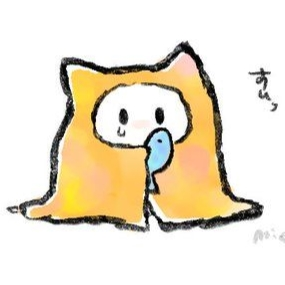
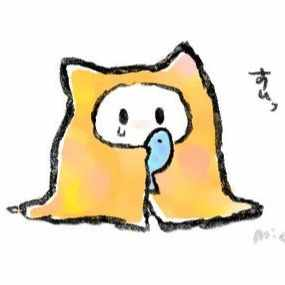
reduce image size

diff --git a/src/components/Views/Home.js b/src/components/Views/Home.js
@@ -15,11 +15,10 @@ class Home extends React.Component {
                         <div className="col-lg-7">
                             <div className="section-title mb-4">
                                 <h5 className="position-relative d-inline-block text-primary text-uppercase">
-                                    Giới thiệu
+                                    Về Fast Uty
                                 </h5>
                                 <h1 className="display-5 mb-0">
-                                    The World's Best Dental Clinic That You Can
-                                    Trust
+                                    Tiện ích nhanh cho bạn
                                 </h1>
                             </div>
                             <h4 className="text-body fst-italic mb-4">
@@ -62,13 +61,6 @@ class Home extends React.Component {
                                     </h5>
                                 </div>
                             </div>
-                            {/* <a
-                                href="appointment.html"
-                                className="btn btn-primary py-3 px-5 mt-4 wow zoomIn"
-                                data-wow-delay="0.6s"
-                            >
-                                Make Appointment
-                            </a> */}
                         </div>
                         <div
                             className="col-lg-5"
@@ -78,7 +70,7 @@ class Home extends React.Component {
                                 <img
                                     className="position-absolute w-100 h-100 rounded wow zoomIn"
                                     data-wow-delay="0.9s"
-                                    src="https://vnn-imgs-a1.vgcloud.vn/cdn.24h.com.vn/upload/3-2019/images/2019-09-22/1569088344-560-1-1569052420-width650height813.jpg"
+                                    src="/img/bg.jpg"
                                     alt=""
                                     style={{ objectFit: "cover" }}
                                 />

diff --git a/src/components/ChatPages/SearchChatRoom.js b/src/components/ChatPages/SearchChatRoom.js
@@ -1,10 +1,12 @@
 import { useEffect, useState } from "react";
+import { useHistory } from "react-router-dom";
 import { withRouter } from "react-router-dom";
 import randomId from "../../services/randomId";
 
 const SearchChatRoom = (props) => {
     const [errMsg, setErrMsg] = useState(null);
     const [roomId, setRoomId] = useState("");
+    const history = useHistory();
 
     const handleChangeRoomId = (e) => {
         setRoomId(e.target.value);
@@ -23,7 +25,7 @@ const SearchChatRoom = (props) => {
             return;
         }
 
-        props.history.push("/chat/" + roomId);
+        history.push("/chat/" + roomId);
     };
 
     useEffect(() => {
@@ -35,21 +37,14 @@ const SearchChatRoom = (props) => {
             <div className="row justify-content-center">
                 <div className="col-md-5 col-sm-10 col-12">
                     <div className="mx-auto mt-4 px-4 py-5 bg-white rounded border">
-                        {/* <h4 className="text-black-50">
-                            <span className="text-primary">Fast</span>
-                            <span className="text-secondary">Chat</span>
-                        </h4> */}
                         <h5 className="position-relative d-inline-block text-primary text-uppercase">
                             fastchat
                         </h5>
                         <form>
                             <div className="form-group mt-4">
-                                {errMsg ? (
-                                    <p className="text-danger">
-                                        <i className="bi bi-exclamation-diamond-fill"></i>{" "}
-                                        {errMsg}
-                                    </p>
-                                ) : null}
+                                {errMsg && (
+                                    <p className="text-danger">{errMsg}</p>
+                                )}
                                 <input
                                     type={"text"}
                                     value={roomId}

diff --git a/src/components/ChatPages/HeaderChat.js b/src/components/ChatPages/HeaderChat.js
@@ -87,6 +87,8 @@ const HeaderChat = (props) => {
                             strokeWidth="1.5"
                             strokeLinecap="round"
                             strokeLinejoin="round"
+                            data-bs-toggle="offcanvas"
+                            data-bs-target="#showInfo"
                         >
                             <circle cx={12} cy={12} r={3} />
                             <path d="M19.4 15a1.65 1.65 0 00.33 1.82l.06.06a2 2 0 010 2.83 2 2 0 01-2.83 0l-.06-.06a1.65 1.65 0 00-1.82-.33 1.65 1.65 0 00-1 1.51V21a2 2 0 01-2 2 2 2 0 01-2-2v-.09A1.65 1.65 0 009 19.4a1.65 1.65 0 00-1.82.33l-.06.06a2 2 0 01-2.83 0 2 2 0 010-2.83l.06-.06a1.65 1.65 0 00.33-1.82 1.65 1.65 0 00-1.51-1H3a2 2 0 01-2-2 2 2 0 012-2h.09A1.65 1.65 0 004.6 9a1.65 1.65 0 00-.33-1.82l-.06-.06a2 2 0 010-2.83 2 2 0 012.83 0l.06.06a1.65 1.65 0 001.82.33H9a1.65 1.65 0 001-1.51V3a2 2 0 012-2 2 2 0 012 2v.09a1.65 1.65 0 001 1.51 1.65 1.65 0 001.82-.33l.06-.06a2 2 0 012.83 0 2 2 0 010 2.83l-.06.06a1.65 1.65 0 00-.33 1.82V9a1.65 1.65 0 001.51 1H21a2 2 0 012 2 2 2 0 01-2 2h-.09a1.65 1.65 0 00-1.51 1z" />

diff --git a/src/components/ChatPages/Chat.js b/src/components/ChatPages/Chat.js
@@ -15,6 +15,7 @@ import ConversationArea from "./ConversationArea";
 import randomAvatar from "../../services/randomAvatar";
 import HeaderChat from "./HeaderChat";
 import { Prompt } from "react-router-dom";
+import { useHistory } from "react-router-dom";
 
 const API_ENDPOINT = process.env.REACT_APP_API_ENDPOINT;
 const serverHost = API_ENDPOINT;
@@ -30,6 +31,7 @@ const Chat = (props) => {
     const messagesEndRef = useRef(null);
 
     const { roomId } = useParams();
+    const history = useHistory();
 
     const handleOnChangeTextMessage = (e) => {
         setTextMessage(e.target.value);
@@ -150,7 +152,7 @@ const Chat = (props) => {
 
     const handleLeaveRoom = () => {
         socket.emit("leave-chat-room", roomId);
-        props.history.push("/chat");
+        history.push("/chat");
     };
 
     const scrollToBottom = () => {

diff --git a/src/components/NotePages/SearchNote.js b/src/components/NotePages/SearchNote.js
@@ -45,10 +45,6 @@ class SearchNote extends React.Component {
                 <div className="row justify-content-center">
                     <div className="col-md-5 col-sm-10 col-12">
                         <div className="mx-auto mt-4 px-4 py-5 bg-white rounded border">
-                            {/* <h4 className="text-black-50">
-                                <span className="text-primary">Fast</span>
-                                <span className="text-secondary">Note</span>
-                            </h4> */}
                             <h5 className="position-relative d-inline-block text-primary text-uppercase">
                                 fastnote
                             </h5>

diff --git a/src/components/NotePages/BackupPage.js b/src/components/NotePages/BackupPage.js
@@ -110,8 +110,8 @@ class BackupPage extends React.Component {
         let { code } = this.props.match.params;
 
         return (
-            <div className="container mt-3 py-3 px-4 bg-white h-75">
-                <h4 style={{ color: "#34568b" }}>Kho lưu trữ</h4>
+            <div className="container backup-container py-3 px-4 bg-white border rounded">
+                <h4 style={{ color: "#34568b" }}>Kho lưu trữ ghi chú</h4>
                 <p>
                     Hiện có{" "}
                     <strong className="text-primary">{data.length}</strong>{" "}

diff --git a/src/components/ChatPages/ShowInfo.js b/src/components/ChatPages/ShowInfo.js
@@ -17,12 +17,16 @@ const ShowInfo = (props) => {
     };
 
     const handleUpdateUserInfo = () => {
-        console.log("handleUpdateUserInfo: ", userAvatar, userDisplayName);
+        // console.log("handleUpdateUserInfo: ", userAvatar, userDisplayName);
         props.changeUserInfo({ userAvatar, userDisplayName });
         setErrMessage("");
         setOkMessage(
             "Cập nhật thành công! - " + moment(new Date()).format("hh:mm:ss A")
         );
+
+        setTimeout(() => {
+            setOkMessage("");
+        }, 3000);
     };
 
     return (

diff --git a/src/components/Views/Navbar.js b/src/components/Views/Navbar.js
@@ -14,7 +14,7 @@ function Navbar() {
                 </h2>
             </Link>
             <button
-                className="navbar-toggler"
+                className="navbar-toggler py-2"
                 type="button"
                 data-bs-toggle="collapse"
                 data-bs-target="#navbarCollapse"

diff --git a/src/components/ChatPages/Chat.css b/src/components/ChatPages/Chat.css
@@ -128,6 +128,10 @@ html {
     -webkit-font-smoothing: antialiased;
 }
 
+.main-container-chat {
+    height: calc(100% - 150px);
+}
+
 .app {
     display: flex;
     flex-direction: column;

diff --git a/public/css/style.css b/public/css/style.css
@@ -445,10 +445,6 @@ td {
     height: calc(100% - 100px);
 }
 
-.main-container-chat {
-    height: calc(100% - 160px);
-}
-
 .btn {
     border-radius: 4px;
     margin: 1px 3px;

diff --git a/src/components/NotePages/Note.css b/src/components/NotePages/Note.css
@@ -38,3 +38,7 @@
     font-weight: 600;
     color: #62738d !important;
 }
+
+.backup-container {
+    height: calc(100% - 70px);
+}
